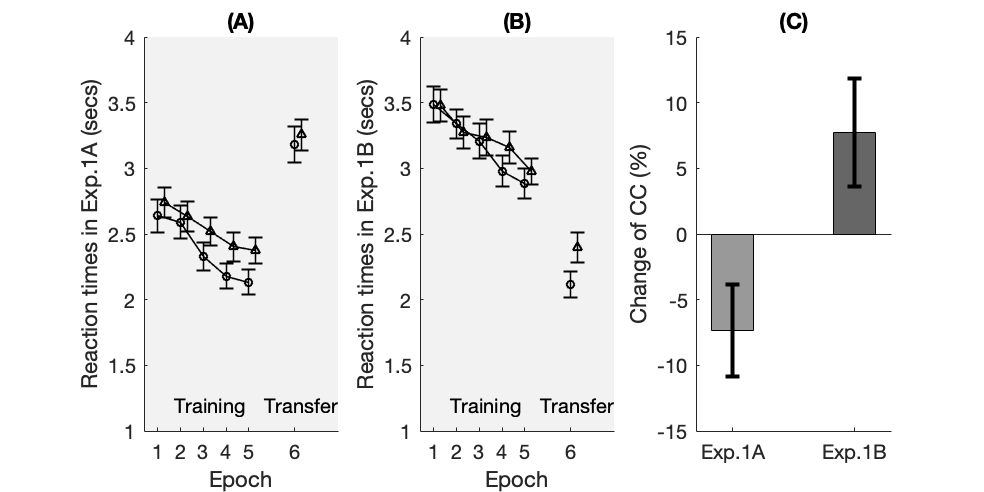
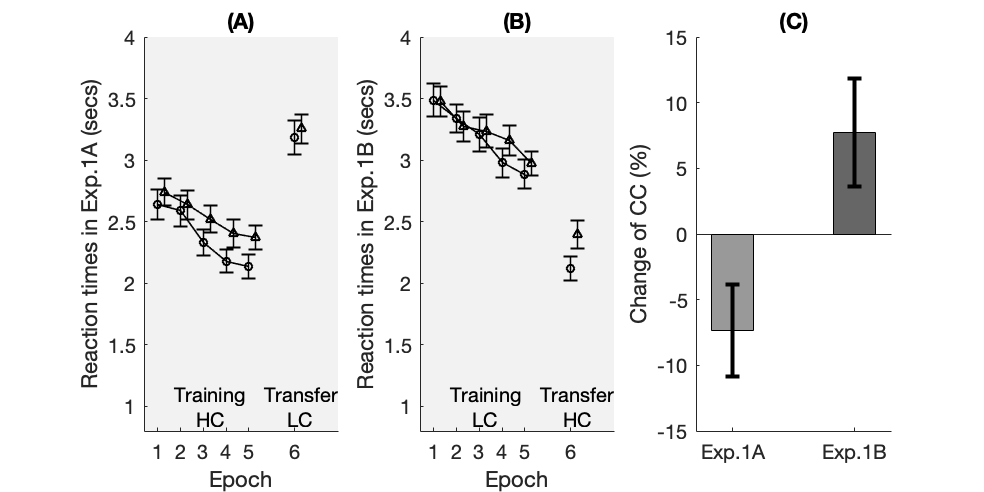
upload figures

diff --git a/code/dataProcessValidLessColor.m b/code/dataProcessValidLessColor.m
@@ -82,13 +82,14 @@ markerSZ = 4;
 lineWd = 0.8;
 offset = 0.3 ;
 xlimArry = [0 8.5];
-txtLoc = [1.3, 1.2; 5.25,1.2,];
+%txtLoc = [1.3, 1.2; 5.25,1.2,];
+txtLoc = [1.3, 1.1; 5.25, 1.1];
 %% plot RT of the firt Exp
 figure(), hold on;
 set(gcf,'Units','inches','Position',[6 0.5 6.83 6.83*0.5]);
-ylimArry = [1 4];
-subplotMRT(xlimArry, ylimArry, dataOut.p1.RT, 1, '(A)', offset,nEp,nEpT, lineWd, markerSZ, txtLoc, 'Exp.1A'); %Exp.1A Photopic H2L
-subplotMRT(xlimArry, ylimArry, dataOut.p2.RT, 2, '(B)', offset,nEp,nEpT, lineWd, markerSZ, txtLoc, 'Exp.1B'); %Exp.1B Photopic L2H
+ylimArry = [0.8 4];
+subplotMRT(xlimArry, ylimArry, dataOut.p1.RT, 1, '(A)', offset,nEp,nEpT, lineWd, markerSZ, txtLoc, 'Exp.1A', 'HC', 'LC', '', ''); %Exp.1A Photopic H2L
+subplotMRT(xlimArry, ylimArry, dataOut.p2.RT, 2, '(B)', offset,nEp,nEpT, lineWd, markerSZ, txtLoc, 'Exp.1B', 'LC', 'HC', '', ''); %Exp.1B Photopic L2H
 subBarPlot(meanArray(1:2,:), barColor,'(C)',['Exp.1A';'Exp.1B']);
 saveas(gcf,'../figures/fig3_exp1.png')
 hold off;
@@ -98,10 +99,10 @@ hold off;
 
 figure(), hold on;
 set(gcf,'Units','inches','Position',[6 0.5 6.83 6.83*0.5]);
-ylimArry = [1 4];
+ylimArry = [0.8 4];
 %     txtLoc(:,2) =  txtLoc(:,2) - 0.2;
-subplotMRT(xlimArry, ylimArry, dataOut.p3.RT, 3, '(A)', offset,nEp,nEpT, lineWd, markerSZ,txtLoc, 'Exp.2A'); %Exp.2A  Mesopic H2L
-subplotMRT(xlimArry, ylimArry, dataOut.p4.RT, 4, '(B)', offset,nEp,nEpT, lineWd, markerSZ,txtLoc, 'Exp.2B'); %Exp.2B  Mesopic L2H
+subplotMRT(xlimArry, ylimArry, dataOut.p3.RT, 3, '(A)', offset,nEp,nEpT, lineWd, markerSZ,txtLoc, 'Exp.2A', 'HC', 'LC', 'light', 'light'); %Exp.2A  Mesopic H2L
+subplotMRT(xlimArry, ylimArry, dataOut.p4.RT, 4, '(B)', offset,nEp,nEpT, lineWd, markerSZ,txtLoc, 'Exp.2B', 'LC', 'HC', 'light', 'light'); %Exp.2B  Mesopic L2H
 subBarPlot(meanArray(3:4,:), barColor,'(C)',['Exp.2A';'Exp.2B']);
 saveas(gcf,'../figures/fig4_exp2.png')
 hold off;
@@ -109,10 +110,10 @@ hold off;
 
 figure(), hold on;
 set(gcf,'Units','inches','Position',[6 0.5 6.83 6.83*0.5]);
-ylimArry = [1 4.6];
-txtLoc(:,2) =  txtLoc(:,2) - 0.1;
-subplotMRT(xlimArry, ylimArry, dataOut.p5.RT, 5, '(A)', offset,nEp,nEpT, lineWd, markerSZ,txtLoc,  'Exp.3A'); %Exp.3A HC-M2P
-subplotMRT(xlimArry, ylimArry, dataOut.p6.RT, 6, '(B)', offset,nEp,nEpT, lineWd, markerSZ, txtLoc, 'Exp.3B'); %Exp.3B LC-M2P
+ylimArry = [0.8 4.6];
+txtLoc(:,2) =  txtLoc(:,2);
+subplotMRT(xlimArry, ylimArry, dataOut.p5.RT, 5, '(A)', offset,nEp,nEpT, lineWd, markerSZ, txtLoc, 'Exp.3A', 'HC', 'HC', 'light', ''); %Exp.3A HC-M2P
+subplotMRT(xlimArry, ylimArry, dataOut.p6.RT, 6, '(B)', offset,nEp,nEpT, lineWd, markerSZ, txtLoc, 'Exp.3B', 'HC', 'HC', 'light', ''); %Exp.3B LC-M2P
 subBarPlot(meanArray(5:6,:), barColor,'(C)',['Exp.3A';'Exp.3B']);
 saveas(gcf,'../figures/fig5_exp3.png')
 hold off;
@@ -122,10 +123,11 @@ end
 
 
 
-function subplotMRT(xlimArry, ylimArry, DataIn, FigNum, titleName, offset,nEp,nEpT, lineWd, markerSZ,txtLoc, expName)
+function subplotMRT(xlimArry, ylimArry, DataIn, FigNum, titleName, offset,nEp,nEpT, lineWd, markerSZ,txtLoc, expName, trainingTxt, transferTxt, trainingColor, transferColor)
 
 darkColor = [0.5 0.5 0.5];
 brightColor = [0.95 0.95 0.95];
+whiteColor = [1 1 1];
 leftFig = mod(FigNum-1,2)+1;
 %separate training and test session in the figure
 testRightShift = 0.6;
@@ -137,13 +139,23 @@ elseif FigNum <= 4
     set(gca,'Color',darkColor);
 else
     set(gca,'Color', darkColor);
-    rectangle('Position',[5.3,1,3.2,3.6],'Curvature', [0 0], 'FaceColor',brightColor);
+    rectangle('Position',[5.3, 0.1, 3.3, 4.7],'Curvature', [0 0], 'FaceColor',brightColor);
 end
 
-errorbar( (1:nEp)+trainLeftShift, DataIn.m(1:nEp), DataIn.e(1:nEp),'ko-',  'linewidth', lineWd,'MarkerSize',markerSZ);
-errorbar((1:nEp)+offset+trainLeftShift, DataIn.m(nEp+nEpT+1:end-1), DataIn.e(nEp+nEpT+1:end-1),'k^-' , 'linewidth', lineWd,'MarkerSize', markerSZ);
-errorbar(nEp+1+testRightShift, DataIn.m(nEp+nEpT), DataIn.e(nEp+nEpT),'ko-', 'linewidth', lineWd,'MarkerSize',markerSZ);
-errorbar((nEp+1+testRightShift)+offset, DataIn.m(end), DataIn.e(end),'k^-', 'linewidth', lineWd,'MarkerSize',markerSZ);
+errbarTrainColor = [0 0 0];
+if(strcmp(trainingColor,'light'))
+    errbarTrainColor = [0.15 0.15 0.15];
+end
+
+errbarTransferColor = [0 0 0];
+if(strcmp(transferColor,'light'))
+    errbarTransferColor = [0.15 0.15 0.15];
+end
+
+errorbar((1:nEp)+trainLeftShift, DataIn.m(1:nEp), DataIn.e(1:nEp),'o-', 'color', errbarTrainColor,  'linewidth', lineWd,'MarkerSize',markerSZ);
+errorbar((1:nEp)+offset+trainLeftShift, DataIn.m(nEp+nEpT+1:end-1), DataIn.e(nEp+nEpT+1:end-1),'^-', 'color', errbarTrainColor, 'linewidth', lineWd,'MarkerSize', markerSZ);
+errorbar(nEp+1+testRightShift, DataIn.m(nEp+nEpT), DataIn.e(nEp+nEpT),'o-', 'color', errbarTransferColor, 'linewidth', lineWd,'MarkerSize',markerSZ);
+errorbar((nEp+1+testRightShift)+offset, DataIn.m(end), DataIn.e(end),'^-', 'color', errbarTransferColor, 'linewidth', lineWd,'MarkerSize',markerSZ);
 
 ylab = ['Reaction times (secs)'];
 if(~isempty(expName))
@@ -153,6 +165,8 @@ ylabel(ylab);
 xlabel('Epoch');
 text(txtLoc(1,1), txtLoc(1,2), 'Training', 'Color', [.0 .0 .0]);
 text(txtLoc(2,1), txtLoc(2,2), 'Transfer', 'Color',[.0 .0 .0]);
+text(txtLoc(1,1)+1, txtLoc(1,2)-0.2, trainingTxt, 'Color', [.0 .0 .0]);
+text(txtLoc(2,1)+1, txtLoc(2,2)-0.2, transferTxt, 'Color',[.0 .0 .0]);
 
 set(gca,'xLim',[xlimArry]);
 xticks([(1:5)+trainLeftShift 6+testRightShift]);
